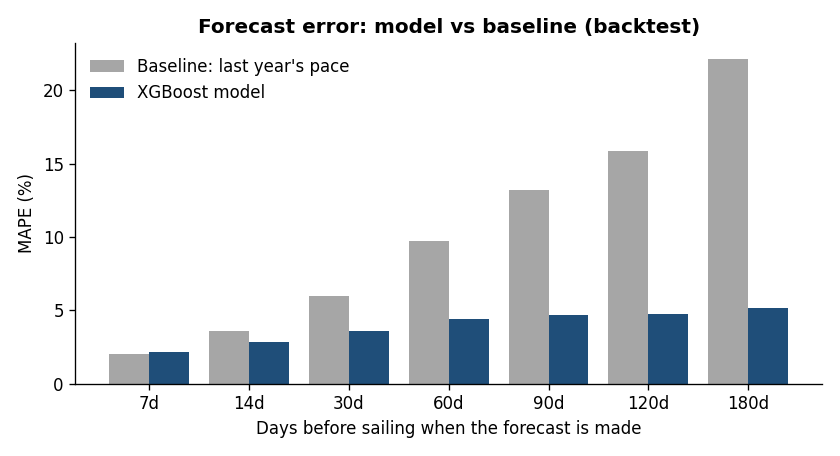
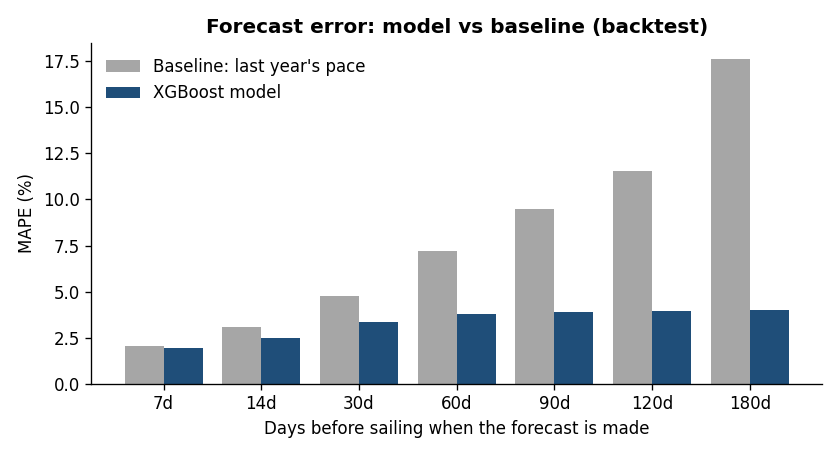
Update cruise and hotel projects: SEC-calibrated data and Power BI dashboards

diff --git a/project3.html b/project3.html
@@ -5,7 +5,7 @@
     <meta charset="UTF-8">
     <meta name="viewport" content="width=device-width, initial-scale=1.0">
     <meta http-equiv="X-UA-Compatible" content="ie=edge">
-    <meta name="description" content="Cruise cabin demand forecasting and a pricing A/B test on 500K synthetic bookings, built with Python, XGBoost, SQL and Power BI. A project by Jonathan Velez.">
+    <meta name="description" content="Cruise cabin demand forecasting and a pricing A/B test on 510K synthetic bookings calibrated to real SEC filings, built with Python, XGBoost, SQL and Power BI. A project by Jonathan Velez.">
     <meta name="author" content="Jonathan Velez">
     <script>try{var t=localStorage.getItem('jv-theme');if(t)document.documentElement.setAttribute('data-theme',t);}catch(e){}</script>
     <title>Cruise Cabin Pricing &amp; Demand Forecasting | Jonathan Velez</title>
@@ -13,7 +13,7 @@
     <link rel="icon" href="favicon.svg" type="image/svg+xml">
     <meta property="og:type" content="website">
     <meta property="og:title" content="Cruise Cabin Pricing &amp; Demand Forecasting | Jonathan Velez">
-    <meta property="og:description" content="Cruise cabin demand forecasting and a pricing A/B test on 500K synthetic bookings, built with Python, XGBoost, SQL and Power BI. A project by Jonathan Velez.">
+    <meta property="og:description" content="Cruise cabin demand forecasting and a pricing A/B test on 510K synthetic bookings calibrated to real SEC filings, built with Python, XGBoost, SQL and Power BI. A project by Jonathan Velez.">
     <meta property="og:url" content="https://jonathanwvelez.com/project3.html">
     <meta property="og:image" content="https://jonathanwvelez.com/assets/img/cruise_error_by_horizon.png">
     <script>if(location.protocol==='http:'&&!/^(localhost|127\.0\.0\.1)$/.test(location.hostname)){location.replace('https://'+location.host+location.pathname+location.search+location.hash);}</script>
@@ -115,21 +115,31 @@
                             <li>GitHub Actions</li>
                         </ul>
                     </div>
-                    <p>An end-to-end revenue management project for a cruise line. It runs on about 500,000 synthetic bookings that the project generates to behave like real cruise demand: seasonality, booking curves, dynamic pricing and cancellations. It isn't data from any cruise line, and the project isn't affiliated with any company.</p>
+                    <p>An end-to-end revenue management project for a cruise line. Cruise lines don't publish booking-level data, so the project generates about 510,000 synthetic bookings with seasonality, booking curves, dynamic pricing and cancellations, and calibrates them to real quarterly numbers from three major cruise lines' SEC filings. No real booking data is used, and the project isn't affiliated with any company.</p>
                     <h3>What it does</h3>
                     <ul class="article__list">
-                        <li>Cleans the raw bookings with a pandas ETL pipeline (512,207 rows in, 511,119 out) and logs every data-quality rule it applies.</li>
+                        <li>Pulls ten years of quarterly occupancy, passenger cruise days and revenue from three cruise lines' 10-Q and 10-K filings (SEC EDGAR), and tunes the synthetic data to match.</li>
+                        <li>Cleans the raw bookings with a pandas ETL pipeline (510,409 rows in, 509,320 out) and logs every data-quality rule it applies.</li>
                         <li>Answers reporting questions in SQL with DuckDB: occupancy, revenue per cabin, new vs. repeat guests, and price by booking window.</li>
                         <li>Forecasts final occupancy for every sailing and cabin category with XGBoost, tested on the most recent six months of sailings.</li>
                         <li>Runs a pricing A/B test with CUPED variance reduction and a power analysis.</li>
-                        <li>Exports Power BI-ready tables and reruns the whole pipeline every week with GitHub Actions.</li>
+                        <li>Presents everything in a 5-page Power BI dashboard, and reruns the whole pipeline every week with GitHub Actions.</li>
                     </ul>
                     <h3>Results</h3>
                     <ul class="article__list">
-                        <li><strong>Forecast error of 3.9% vs. 10.4%</strong> for the last-year-pace baseline, 62% lower. Six months out, it's 5.2% vs. 22.1%.</li>
-                        <li>The pricing test (+5% when a cabin category is at least 70% booked 60 days out) showed <strong>no significant lift</strong> (p = 0.33), so the recommendation is not to roll it out broadly.</li>
-                        <li>CUPED cut the test's variance by 95%.</li>
+                        <li>The synthetic load factor is <strong>within about 2 points of the real reported occupancy</strong> in every quarter: ships sail 107–112% full year-round, and seasonality shows up in price, not empty cabins.</li>
+                        <li><strong>Forecast error of 3.3% vs. 8.0%</strong> for the last-year-pace baseline, 58% lower. Six months out, it's 4.0% vs. 17.6%.</li>
+                        <li>The pricing test (+5% when a cabin category is at least 70% booked 60 days out) showed <strong>no significant lift</strong> (p = 0.43), so the recommendation is not to roll it out broadly.</li>
+                        <li>CUPED cut the test's variance by 93%.</li>
                     </ul>
+                    <figure class="article__figure--chart">
+                        <img src="assets/img/cruise_powerbi_overview.jpg" alt="Power BI dashboard: cruise revenue overview with occupancy, load factor and seasonality" loading="lazy">
+                        <figcaption>Power BI dashboard: revenue overview</figcaption>
+                    </figure>
+                    <figure class="article__figure--chart">
+                        <img src="assets/img/cruise_seasonality.png" alt="Chart: cabins sold stay near full every month while price per cabin-night swings with the season" loading="lazy">
+                        <figcaption>Ships stay nearly full all year; price carries the seasonality</figcaption>
+                    </figure>
                     <figure class="article__figure--chart">
                         <img src="assets/img/cruise_error_by_horizon.png" alt="Bar chart of forecast error by days before sailing, model vs. baseline" loading="lazy">
                         <figcaption>Forecast error by how far ahead the forecast is made</figcaption>

diff --git a/project4.html b/project4.html
@@ -122,6 +122,7 @@
                         <li>Predicts cancellations with logistic regression and XGBoost, using only what's known when the booking is made. Columns that leak the outcome, such as reservation status, assigned room and country, are left out.</li>
                         <li>Validates by time: trains on arrivals through December 2016 and tests on January to August 2017.</li>
                         <li>Turns the predictions into decisions: which bookings to target, how many rooms to overbook safely, and where a deposit would help.</li>
+                        <li>Presents the results in a 4-page Power BI dashboard.</li>
                     </ul>
                     <h3>Results</h3>
                     <ul class="article__list">
@@ -131,6 +132,10 @@
                         <li>The riskiest 20% of bookings hold <strong>44% of all cancellations</strong>.</li>
                         <li>The weekly cancellation forecast has 12.7% error vs. 16.1% for historical averages. A 95%-confidence overbooking level would have overshot in only 2.8% of hotel-weeks.</li>
                     </ul>
+                    <figure class="article__figure--chart">
+                        <img src="assets/img/hotel_powerbi_overview.jpg" alt="Power BI dashboard: hotel cancellation overview" loading="lazy">
+                        <figcaption>Power BI dashboard: cancellation overview</figcaption>
+                    </figure>
                     <figure class="article__figure--chart">
                         <img src="assets/img/hotel_cancel_by_lead_time.png" alt="Chart of cancellation rate by booking window for each hotel" loading="lazy">
                         <figcaption>Cancellation rate by booking window</figcaption>
@@ -166,7 +171,7 @@
               <div class="col-md-6 col-lg-7 project-card__info">
                 <h3 class="project-card__title">Cruise Cabin Pricing &amp; Demand Forecasting</h3>
                 <p class="project-card__description">
-                  A revenue management pipeline on 500K synthetic cruise bookings. The XGBoost demand forecast has 62% less error than a last-year-pace baseline, and a pricing A/B test uses CUPED and a power analysis.
+                  A revenue management pipeline on 510K synthetic cruise bookings, calibrated to real cruise-line SEC filings. The XGBoost demand forecast has 58% less error than a last-year-pace baseline, and a pricing A/B test uses CUPED and a power analysis.
                 </p>
                 <p class="project-card__stack">Used stack:</p>
                 <ul class="tags">

diff --git a/project1.html b/project1.html
@@ -178,7 +178,7 @@
               <div class="col-md-6 col-lg-7 project-card__info">
                 <h3 class="project-card__title">Cruise Cabin Pricing &amp; Demand Forecasting</h3>
                 <p class="project-card__description">
-                  A revenue management pipeline on 500K synthetic cruise bookings. The XGBoost demand forecast has 62% less error than a last-year-pace baseline, and a pricing A/B test uses CUPED and a power analysis.
+                  A revenue management pipeline on 510K synthetic cruise bookings, calibrated to real cruise-line SEC filings. The XGBoost demand forecast has 58% less error than a last-year-pace baseline, and a pricing A/B test uses CUPED and a power analysis.
                 </p>
                 <p class="project-card__stack">Used stack:</p>
                 <ul class="tags">

diff --git a/project2.html b/project2.html
@@ -155,7 +155,7 @@
               <div class="col-md-6 col-lg-7 project-card__info">
                 <h3 class="project-card__title">Cruise Cabin Pricing &amp; Demand Forecasting</h3>
                 <p class="project-card__description">
-                  A revenue management pipeline on 500K synthetic cruise bookings. The XGBoost demand forecast has 62% less error than a last-year-pace baseline, and a pricing A/B test uses CUPED and a power analysis.
+                  A revenue management pipeline on 510K synthetic cruise bookings, calibrated to real cruise-line SEC filings. The XGBoost demand forecast has 58% less error than a last-year-pace baseline, and a pricing A/B test uses CUPED and a power analysis.
                 </p>
                 <p class="project-card__stack">Used stack:</p>
                 <ul class="tags">

diff --git a/index.html b/index.html
@@ -221,7 +221,7 @@
         <div class="col-md-6 col-lg-7 project-card__info">
           <h3 class="project-card__title">Cruise Cabin Pricing &amp; Demand Forecasting</h3>
           <p class="project-card__description">
-            A revenue management pipeline on 500K synthetic cruise bookings. The XGBoost demand forecast has 62% less error than a last-year-pace baseline, and a pricing A/B test uses CUPED and a power analysis.
+            A revenue management pipeline on 510K synthetic cruise bookings, calibrated to real cruise-line SEC filings. The XGBoost demand forecast has 58% less error than a last-year-pace baseline, and a pricing A/B test uses CUPED and a power analysis.
           </p>
           <p class="project-card__stack">Used stack:</p>
           <ul class="tags">
